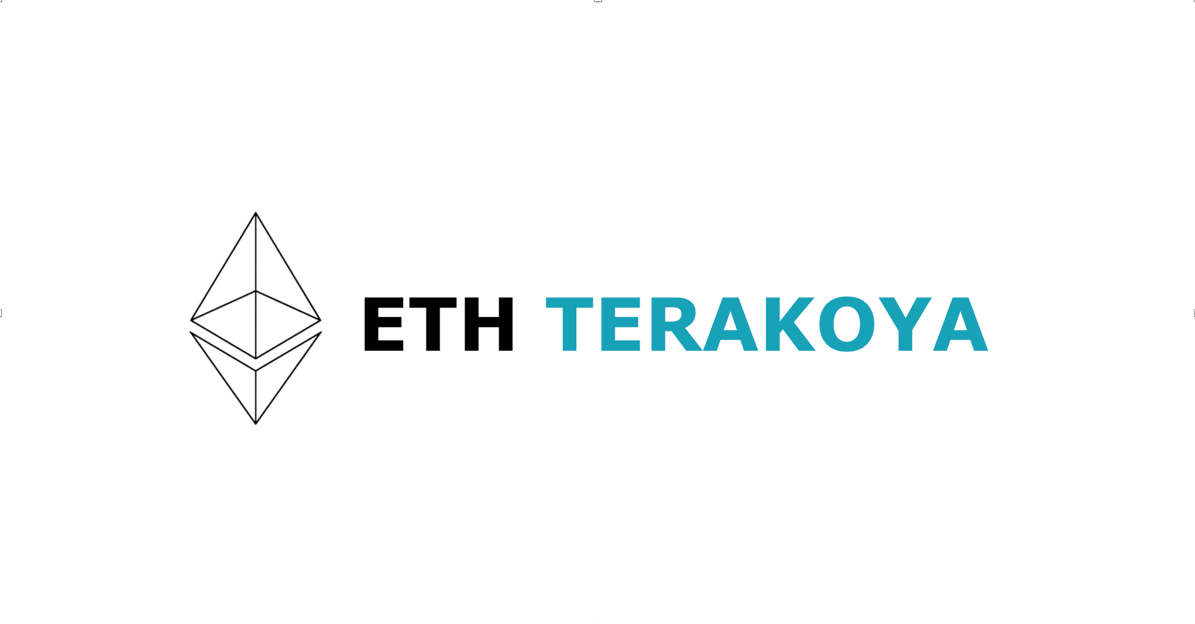
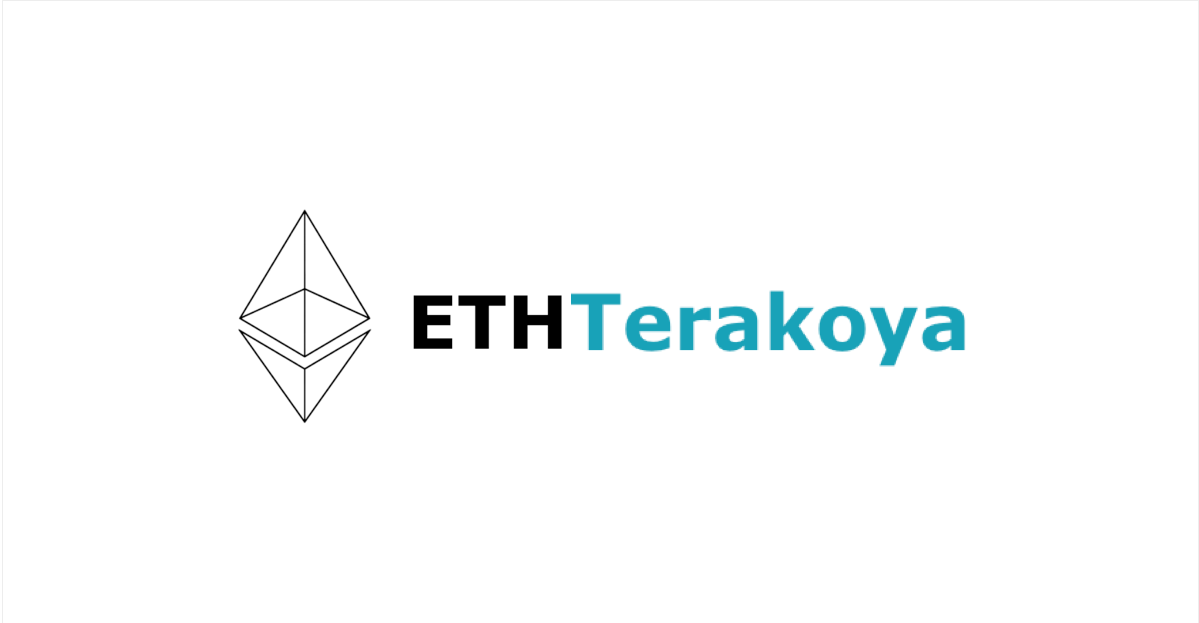
Update og image and text

Changed region(s): [[0.1548, 0.3355, 0.836, 0.6709]]

diff --git a/index.html b/index.html
@@ -9,6 +9,10 @@
     <meta property="og:site_name" content="ethereum-terakoya.org">
     <meta property="og:url" content="https://ethereum-terakoya.org">
     <meta property="og:image" content="https://ethereum-terakoya.org/assets/eth-terakoya-og.png">
+    <meta property="twitter:card" content="summary_large_image">
+    <meta property="twitter:site" content="@couger_inc">
+    <meta property="twitter:creator" content="@couger_inc">
+    <meta property="twitter:image" content="https://ethereum-terakoya.org/assets/eth-terakoya-og.png">
     <link rel="icon" href="assets/eth-black.svg">
     <link rel="stylesheet" href="https://stackpath.bootstrapcdn.com/bootstrap/4.5.0/css/bootstrap.min.css" integrity="sha384-9aIt2nRpC12Uk9gS9baDl411NQApFmC26EwAOH8WgZl5MYYxFfc+NcPb1dKGj7Sk" crossorigin="anonymous">
     <link rel="stylesheet" href="css/style.css">
@@ -16,7 +20,7 @@
   <body>
     <nav class="navbar navbar-expand-lg navbar-dark bg-dark">
       <div class="container">
-        <a class="navbar-brand" href="#">EthTerakoya</a>
+        <a class="navbar-brand" href="#">ETHTerakoya</a>
         <button class="navbar-toggler" type="button" data-toggle="collapse" data-target="#navbarNav" aria-controls="navbarNav" aria-expanded="false" aria-label="Toggle navigation">
           <span class="navbar-toggler-icon"></span>
         </button>
@@ -32,7 +36,7 @@
     <div class="jumbotron jumbotron-fluid">
       <div class="container">
         <img src="./assets/eth-white.svg" class="top-logo pb-2"/>
-        <h1 class="display-6 text-white">EthTerakoya</h1>
+        <h1 class="display-6 text-white">ETHTerakoya</h1>
       </div>
     </div>
     <div class="container">
@@ -43,7 +47,7 @@
       </div>
       <div class="row py-5">
         <div class="col">
-          <h4 class="text-center mb-5 h3">EthTerakoyaとは</h4>
+          <h4 class="text-center mb-5 h3">ETHTerakoyaとは</h4>
           <p>ブロックチェーン事業を進める中で、技術や法律などあらゆる判断軸が必要とされます。しかし、技術視点とビジネス視点の隔たりから、課題解決に対して十分なリソースを生かし切れていないとった課題があります。その隔たりを埋めるために、それぞれの業界エキスパートが課題を深掘りし、ワークショップを多くの事業者が自走するためのアウトプットを作り出すためのコミュニティが「EthTerakoya」です。</p>
         </div>
       </div>
